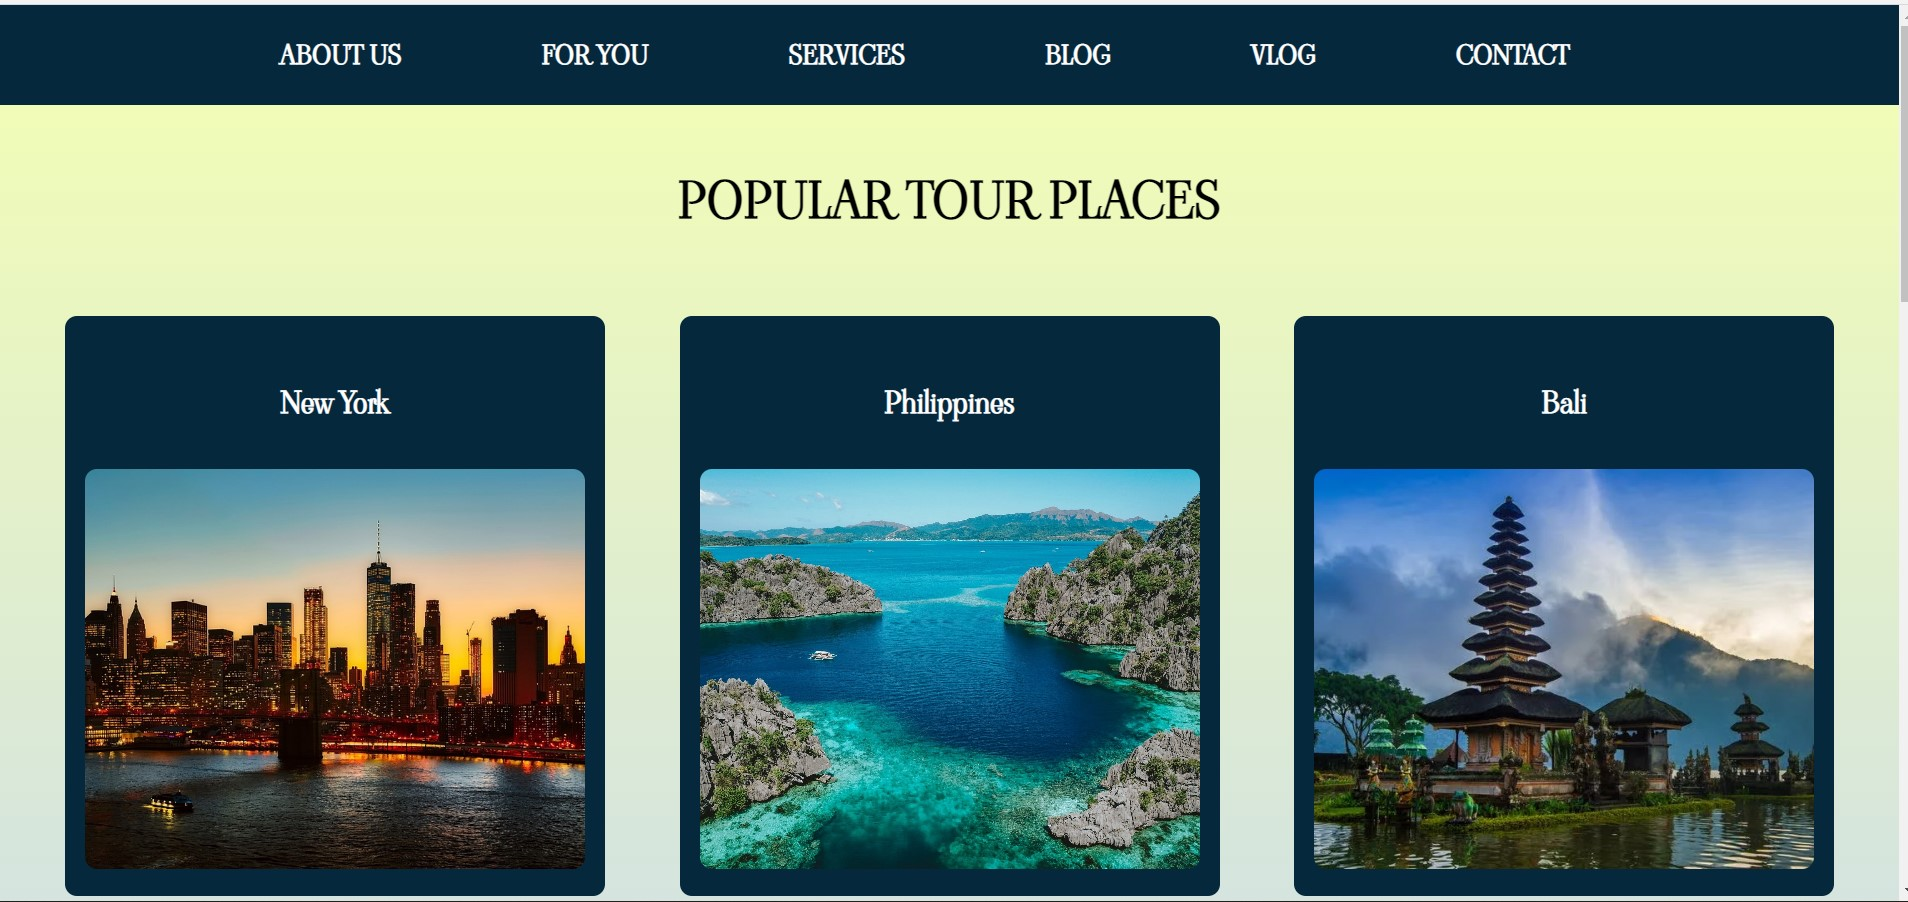
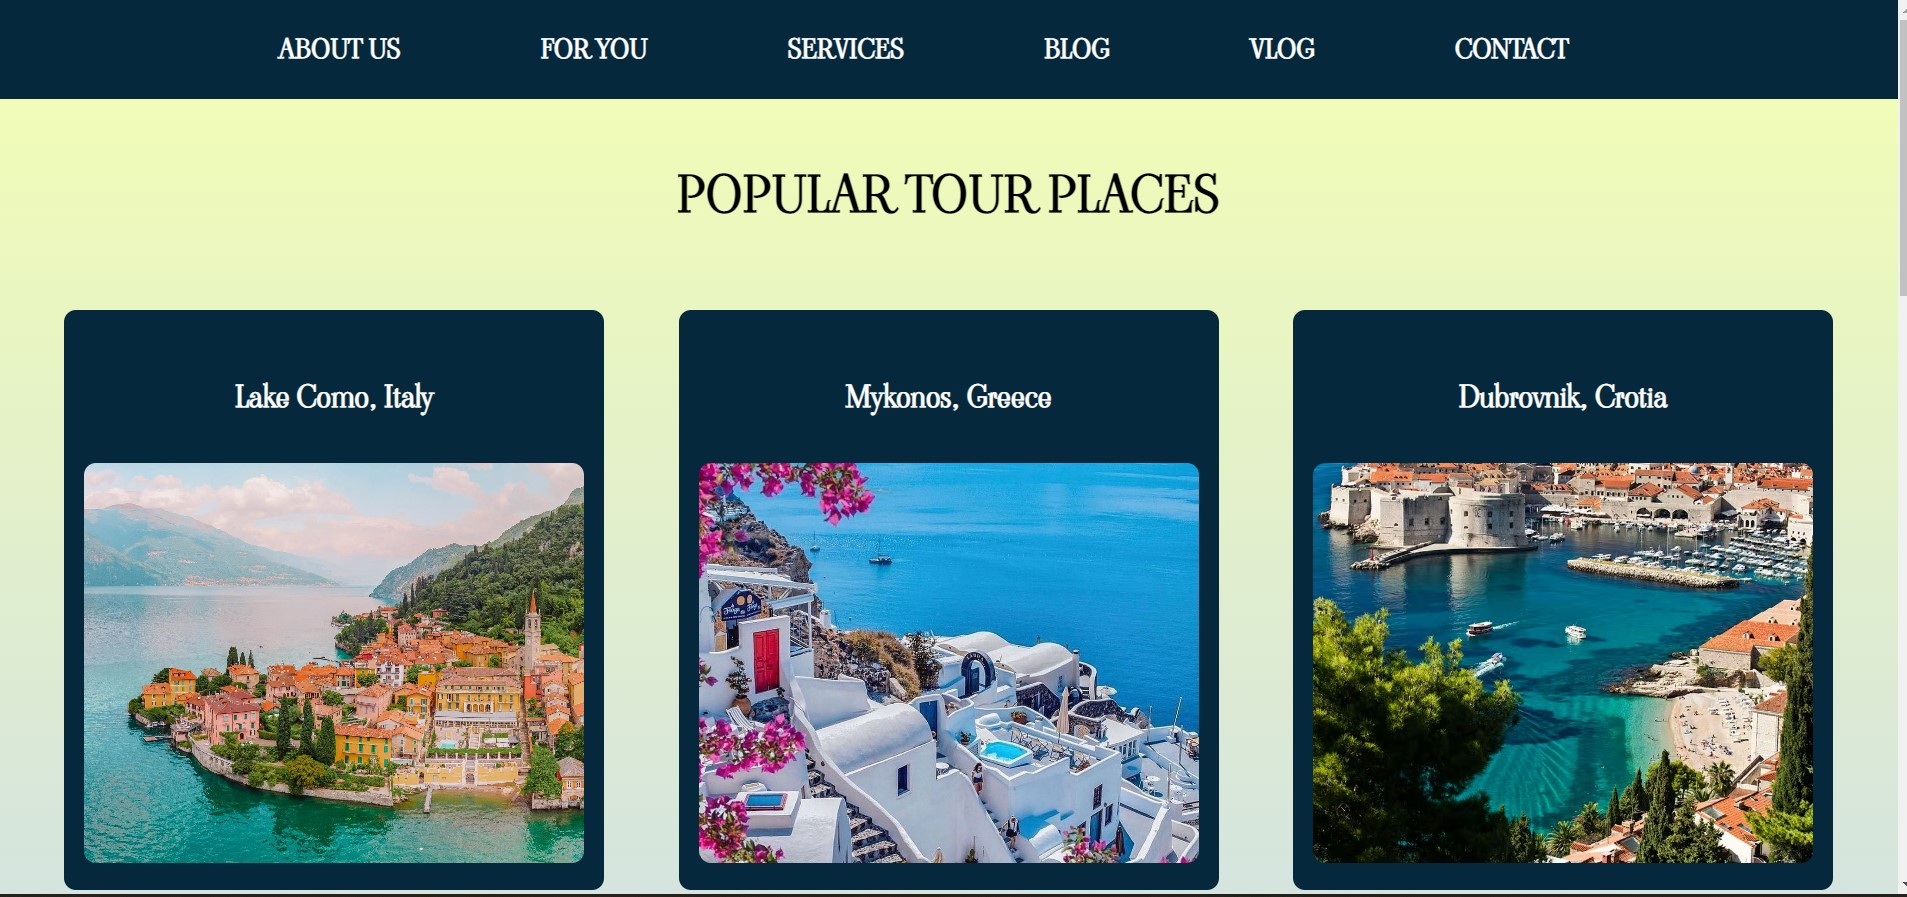
last changed

diff --git a/src/helper/data.js b/src/helper/data.js
@@ -1,83 +1,87 @@
 export const data = [
   {
     id: 1,
-    title: "New York",
-    desc: "Home to the Statue of Liberty, Empire State Building, Central Park, Times Square, New York is the most populous city in the USA. We have a lot to tell about the city where city lights illuminate the sky.",
+    title: "Lake Como, Italy",
+    desc: "ake Como has been a popular retreat for aristocrats and wealthy people since Roman times, and a very popular tourist attraction with many artistic and cultural gems. It has many villas and palaces such as Villa Olmo, Villa Serbelloni, and Villa Carlotta. Many famous people have had and have homes on the shores of Lake Como.",
     image:
-      "https://cdn.pixabay.com/photo/2017/06/07/15/47/new-york-city-2380683_960_720.jpg",
+      "https://i0.wp.com/handluggageonly.co.uk/wp-content/uploads/2021/03/HandLuggageOnly-14-2.jpg?w=1600&ssl=1",
   },
   {
     id: 2,
-    title: "Philippines",
-    desc: "The island country, the Philippines, is one of the most beautiful countries where blue and green are together. Forget the potion of youth, traveling to the Philippines will rejuvenate you for at least 5 years.",
+    title: "Mykonos, Greece",
+    desc: "Mykonos has been known as the island of the winds, and it’s located in the heart of the Cyclades group. Mykonos ticks all three. It was one of the first of the Greek islands to be considered a holiday destination and has been popular since the 60s.",
     image:
-      "https://bigseventravel.com/wp-content/uploads/2019/11/john-hernandez-IL-fBBnF-GU-unsplash-1920x1440.jpg",
+      "https://i.pinimg.com/originals/c4/1a/60/c41a608980e089dbccf712261b50dedc.jpg",
   },
   {
     id: 3,
-    title: "Bali",
-    desc: "Bali, Indonesia's most famous island, has taken its place as the 'last paradise' in mind. Providing 80% of its livelihood with tourism, Bali hosts thousands of tourists every year.",
-    image: "https://ak.picdn.net/shutterstock/videos/26368511/thumb/1.jpg",
+    title: "Dubrovnik, Crotia",
+    desc: "Dubrovnik (derived from dubrava in Croatian, meaning “grove”) occupies a promontory jutting into the sea under the bare limestone mass of Mount Srdj. The port’s sea fortifications rise directly from the water’s edge, and the massive round tower (completed 1464) of the Minc̆eta Fortress dominates the city on the landward side.",
+    image:
+      "https://images.hola.com/imagenes/viajes/20200407165155/dubrovnik-croacia-maravillas-desde-mi-pantalla/0-808-901/dubrovnik-playa-a.jpg",
   },
   {
     id: 4,
-    title: "Egypt",
-    desc: "Being one of the biggest countries of the Middle East, Egypt has been the transition point of many civilizations with its thousands of years of history. The pyramids and miracles that come to mind when talking about Egypt have been the subject of many films. It still remains a mystery.",
+    title: "Petra, Jordan",
+    desc: "The city of Petra, capital of the Nabataean Arabs, is one of the most famous archaeological sites in the world, it is Located 240 km south of the capital Amman and 120 km north of the red sea town of Aqaba (see the Map), Petra the world wonder, is undoubtedly Jordan's most valuable treasure and greatest tourist attraction, and it is visited by tourists from all over the world.",
     image:
-      "https://images.memphistours.com/large/34d5b5a3fbaa4b3b5d9487bf924b0145.jpg",
+      "https://i.pinimg.com/originals/ae/87/fb/ae87fbdc00aedd484c1f188d9b4ab2fb.jpg",
   },
   {
     id: 5,
-    title: "Cappadocia",
-    desc: "Cappadocia… 'Kappa Tuchia', which means 'Land of Beautiful Horses' in the words of Persians. A location in Turkey and in the center of Anatolia's most popular and unique tourist centers of someone who Cappadocia, magnificent nature, valleys of unique beauty, fairy chimneys, rock-hewn settlements, millions every year with open-air museums and underground cities, local and hosts foreign tourists.",
-    image: "https://i.hurimg.com/i/hdn/75/0x0/5aa10544d3806c25541af273.jpg",
+    title: "Montana, Wyoming",
+    desc: "One of the main attraction to see is the Leshan Grand Buddha. The Grand Buddha is a 71 meter (230 feet) high sculpture carved into one of the large cliffs by the river. Back in the 8th century, Hai Tong led the charge to carve the Leshan Giant Buddha out of a cliff face. The result was a 71-meter Buddha statue that is both the tallest and largest in the world.",
+    image:
+      "https://localadventurer.com/wp-content/uploads/2019/02/yellowstone-things-to-do.jpg",
   },
   {
     id: 6,
-    title: "Paris",
-    desc: "Paris has been recognized as one of the most romantic cities in the world. Many famous buildings here have been added to the Unesco World Heritage List. It awaits you with its museums, fashion and historical buildings.",
+    title: "Anse Source d'Argent, Seychelles",
+    desc: "The absolutely breathtaking scenery is the real highlight of Anse Source d’Argent. The mixture of shallow, clear water, golden sand, and imposing granite formations make it one of the most picturesque beaches anywhere in the world, and one that’s well worth visiting for anyone taking a holiday to the Seychelles.",
     image:
-      "https://d2rdhxfof4qmbb.cloudfront.net/wp-content/uploads/20180221130827/iStock-155381519.jpg",
+      "https://i0.wp.com/jyoshankar.com/wp-content/uploads/2021/06/jyoshankar_ladigue_ansesourcedargent_seychelles_13.jpg?resize=768%2C960&ssl=1",
   },
   {
     id: 7,
-    title: "Venice",
-    desc: "Venice, one of Italy's indispensable stops, is known as the 'City of Channels', 'City of Waters' or 'City of Masks' thanks to its world-famous masks. If you visit in February, you can catch the Venice Carnival, where everyone wears a mask and has fun.",
+    title: "Ha Long Bay, Vietnam",
+    desc: "Towering limestone pillars and tiny islets topped by forest rise from the emerald waters of the Gulf of Tonkin. Designated a World Heritage Site in 1994, Halong Bay's scatter of islands, dotted with wind- and wave-eroded grottoes, is a vision of ethereal beauty and, unsurprisingly, northern Vietnam's number one-tourism hub.",
     image:
-      "https://www.qantas.com/content/travelinsider/en/explore/europe/italy/venice/things-you-need-to-know-before-you-go-to-venice/_jcr_content/parsysTop/hero.img.full.medium.jpg/1535006246068.jpg",
+      "https://i.pinimg.com/564x/50/02/e7/5002e7de0415aa117055420b5fec58a4.jpg",
   },
   {
     id: 8,
-    title: "India",
-    desc: "If you are not a vacationer but a traveler, we can say that India is the place for you. India, one of the most colorful places in the world, has a crazy variety. The Taj Mahal, the story of which you have heard more or less, is one of its famous buildings.",
-    image: "https://lp-cms-production.imgix.net/2020-11/GettyRF_494057771.jpg",
+    title: "The Dead Sea, Israel",
+    desc: "The Dead Sea, known in Hebrew as Yam Ha-Melakh (the Sea of Salt) is the lowest point on earth. It’s surrounded by the stunning landscape of the Negev Desert. The shores of the Dead Sea are the lowest point on the surface of the earth. The saline waters of the lake means no fish can survive in the salty waters, hence the name. The other result of the salty water is their renowned health and healing properties of the mud. ",
+    image:
+      "https://images.squarespace-cdn.com/content/v1/596b2969d2b85786e6892853/1559658551705-B1QHWLY2HKBHCEBIQ8L1/Things+to+do+in+the+Dead+Sea+-+The+Dead+Sea+Tree?format=750w",
   },
   {
     id: 9,
-    title: "Northern Lights",
-    desc: "Northern lights, the 'Aurora Borealis', named after the Dawn Goddess Aurora, are the natural glows that emerge in the sky with the interaction of the earth's magnetic field and charged particles from the Sun. This image, which makes most of us feel like in a fairy tale land, deserves to be visited at least once in a lifetime.",
+    title: "Machu Picchu, Peru",
+    desc: "Every year, millions of people visit the imposing and mysterious Incan citadel of Machu Picchu in Peru. But getting to the massive agricultural terraces, intricate stone constructions, and epic hilltop views of this UNESCO World Heritage site isn't cheap, and it involves some trickier-than-usual logistics. Here's how to expertly navigate your way to Peru's most famous destination.",
     image:
-      "https://images.unsplash.com/photo-1579033461380-adb47c3eb938?ixid=MXwxMjA3fDB8MHxzZWFyY2h8MXx8bm9ydGhlcm4lMjBsaWdodHN8ZW58MHx8MHw%3D&ixlib=rb-1.2.1&w=1000&q=80",
+      "https://i0.wp.com/handluggageonly.co.uk/wp-content/uploads/2017/05/IMG_2968-s.jpg?w=1600&ssl=1",
   },
   {
     id: 10,
-    title: "Fuji Mountain",
-    desc: "The symbol and highest mountain of Japan, Mount Fuji is considered sacred by the Japanese and is called Fuji-San. This mountain, which has an active startovolcano, is depicted in art and photography and is a natural wonder visited by athletes and tourists.",
+    title: "Mont Saint Michel, France",
+    desc: "Initially founded by a hermit from Ireland, this medieval town is characterized by intricate architecture and curvy streets and is most known for having one of France’s best attractions, the Mont Saint Michel Abbey. Started in the 10th century, this Benedictine abbey is a great example of Gothic and Romanesque architecture, and it was one of the first UNESCO World Heritage Sites.",
     image:
-      "https://d20aeo683mqd6t.cloudfront.net/articles/title_images/000/038/943/original/pixta_43064884_S.jpg?2019&d=750x400",
+      "https://www.lifesavvy.com/p/uploads/2021/03/eff9dad9.jpg?width=1200",
   },
   {
     id: 11,
-    title: "Arashiyama Bamboo Grove",
-    desc: "Bamboo Forest, or Arashiyama Bamboo Grove or Sagano Bamboo Forest, is a natural forest of bamboo in Arashiyama, Kyoto, Japan. The forest consists mostly of Moso Bamboo (Phyllostachys edulis) and consists of several pathways for tourists and visitors. The Ministry of the Environment considers it a part of the soundscape of Japan.",
-    image: "https://wallpaperaccess.com/full/534182.jpg",
+    title: "Mostar, Bosnia & Herzegovina",
+    desc: "Mainly known for the Old Bridge, or Stari Most, there’s so much more to Mostar. Other than the smells of delicious cuisine and the sounds of traditional live music, there are several popular sites to see that include the remains of Cim Early Christian Basilica, Bishop’s Ordinariate, and the Tara and Halebija Towers. Well-deserving of the honor of being among Europe’s best cities,",
+    image:
+      "https://www.roadaffair.com/wp-content/uploads/2017/09/mostar-bosnia-shutterstock_291941039.jpg",
   },
   {
     id: 12,
-    title: "Antelope Canyon",
-    desc: "Antelope Canyon is a slot canyon in the American Southwest, on Navajo land east of Page, Arizona. It includes two separate, scenic slot canyon sections, referred to as Upper Antelope Canyon (or The Crack), and Lower Antelope Canyon (or The Corkscrew).",
+    title: "Los Cabos, Mexico",
+    desc: "Flanked by the Pacific Ocean and the Gulf of California, Los Cabos' symphony of natural features — desert, mountains, sea, and plenty of sunshine — and yes, raucous party scene, have made it one of the most popular vacation destinations in North America. Its cobalt blue waters are a hub for diving, snorkeling, kayaking, fishing, and whale watching.",
     image:
-      "https://images.unsplash.com/photo-1444076784383-69ff7bae1b0a?ixid=MXwxMjA3fDB8MHxzZWFyY2h8MTJ8fGxvd2VyJTIwYW50ZWxvcGUlMjBjYW55b258ZW58MHx8MHw%3D&ixlib=rb-1.2.1&auto=format&fit=crop&w=500&q=60",
+      "https://i1.wp.com/nextwithnita.com/wp-content/uploads/2018/05/IMG_4795-3.jpg?w=1080&ssl=1",
   },
 ];
 
